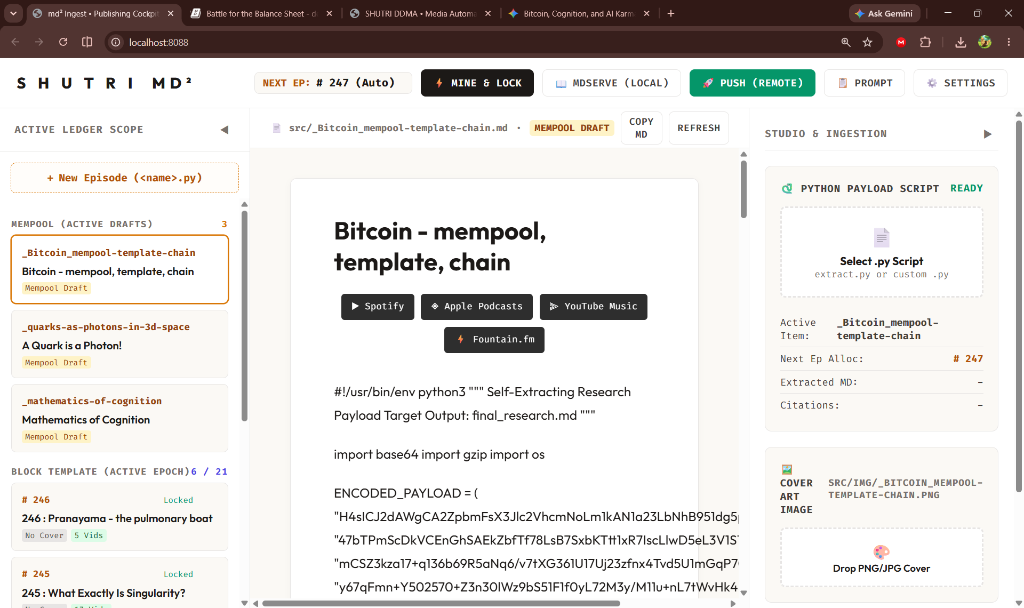
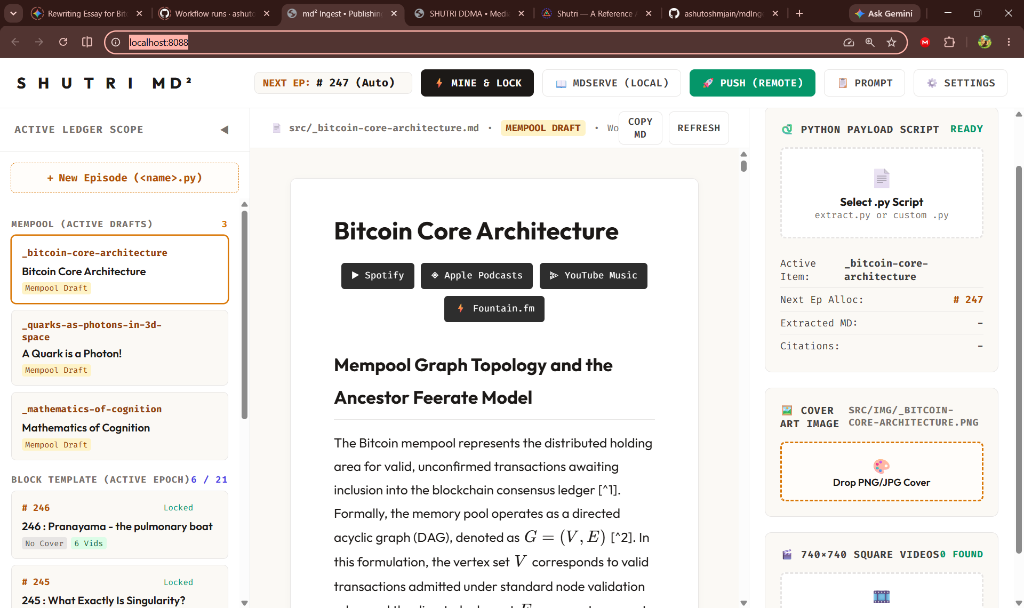
docs: update README with exact dependencies, 1-prompt Antigravity setup, and latest screenshot

diff --git a/README.md b/README.md
@@ -52,6 +52,31 @@ In the age of LLMs, the cost of generating information has collapsed to zero, bu
 
 ---
 
+## Dependencies & System Requirements
+
+| Tool | Version Requirement | Purpose |
+| :--- | :--- | :--- |
+| **Python** | `3.10+` (e.g. `3.12`) | Powers the Cockpit backend server (`server.py`), AST payload extractor, and rolling backup engine. **Zero pip dependencies** (built with pure standard library). |
+| **Rust & Cargo** | `1.85+` (e.g. `1.97+`) | Compiles the optional headless `md-publish` preprocessor binary. |
+| **mdbook** | `v0.5.0+` (e.g. `v0.5.4`) | High-performance CLI documentation engine and local preview server. |
+| **mdbook-katex** | `v0.5.1+` (or `v0.10.0+`) | Preprocessor for high-fidelity LaTeX/KaTeX mathematical equation rendering. |
+
+---
+
+## 🤖 1-Prompt Setup for Antigravity & AI Assistants
+
+If you are setting up `mdIngest` in a new workspace using **Antigravity** or another AI coding assistant, copy and paste this prompt to configure the complete publishing stack automatically:
+
+```text
+Please set up and verify the complete md² (mdIngest) publishing environment in this workspace:
+1. Verify that Python 3.10+, Cargo/Rust, mdbook (v0.5.0+), and mdbook-katex are installed and available on PATH. If mdbook or mdbook-katex are missing, install them via `cargo install mdbook mdbook-katex`.
+2. Build the md-publish preprocessor binary in the `crate/` directory using `cargo build --release`.
+3. Verify that `book.toml` contains the required `[preprocessor.katex]` and `[preprocessor.ingest]` configuration blocks.
+4. Launch the md² Publishing Cockpit server (`python ui/server.py` or `./start_ui.bat`) on http://localhost:8088 and verify that http://localhost:3000 is accessible via `mdbook serve`.
+```
+
+---
+
 ## Quick Start: Launching the Cockpit
 
 ### Windows 1-Click Launcher
